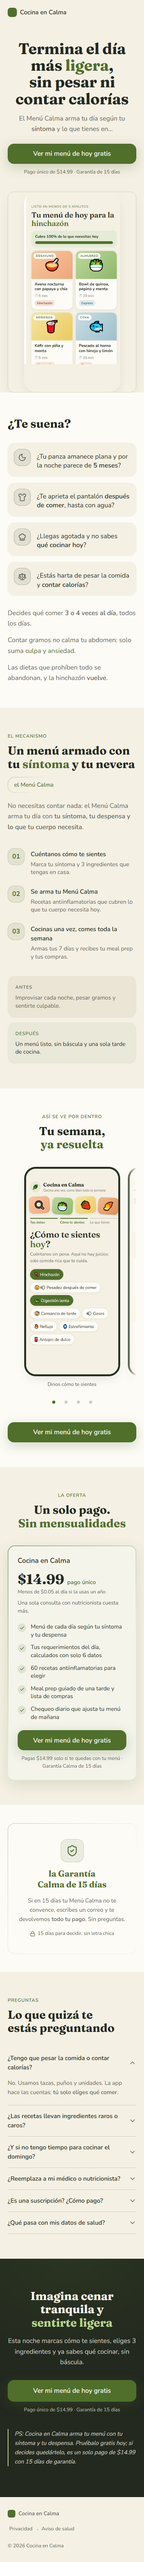
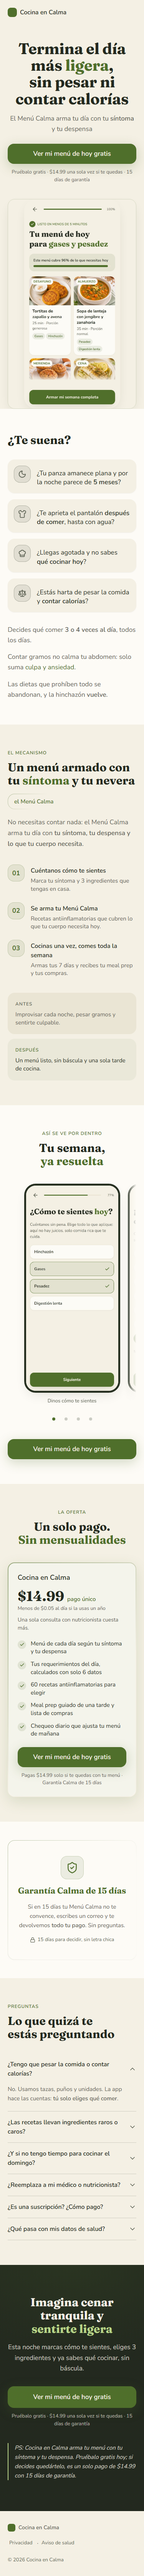
feat: fotos reales de 8 recetas y capturas reales de la app en la landing

diff --git a/app/page.tsx b/app/page.tsx
@@ -30,7 +30,7 @@ export default function Landing() {
         ctaLabel={CTA_LABEL}
         ctaHref={CTA_HREF}
         socialProof={<span>Pruébalo gratis · $14.99 una sola vez si te quedas · 15 días de garantía</span>}
-        visual={<img src="/mocks/primer-menu.png" alt="Tu primer menú de hoy con 4 comidas y la barra 100% cubierto" width={250} height={518} className="mx-auto w-[250px] rounded-[30px] shadow-[var(--shadow-2)]" />}
+        visual={<img src="/mocks/real-menu.jpg" alt="Tu primer menú de hoy con 4 comidas y la barra 100% cubierto" width={250} height={518} className="mx-auto w-[250px] rounded-[30px] shadow-[var(--shadow-2)]" />}
       />
 
       <Problema
@@ -71,10 +71,10 @@ export default function Landing() {
       <AppPorDentro
         tituloMarked="Tu semana, [acento]ya resuelta[/acento]"
         frames={[
-          { label: 'Dinos cómo te sientes', nombrePantalla: 'Síntomas', src: '/mocks/sintomas.png', alt: 'Pantalla donde marcas cómo te sientes hoy' },
-          { label: 'Tu primer menú de hoy', nombrePantalla: 'Menú de hoy', src: '/mocks/primer-menu.png', alt: 'Tu menú de hoy con 4 comidas y la barra de cobertura' },
-          { label: 'Arma tu semana', nombrePantalla: 'Semana', src: '/mocks/semana.png', alt: 'Pantalla para armar los 7 días de tu semana' },
-          { label: 'Meal prep y compras', nombrePantalla: 'Prep', src: '/mocks/prep.png', alt: 'Pasos del meal prep y lista de compras' },
+          { label: 'Dinos cómo te sientes', nombrePantalla: 'Síntomas', src: '/mocks/real-sintomas.jpg', alt: 'Pantalla donde marcas cómo te sientes hoy' },
+          { label: 'Marca lo que tienes en casa', nombrePantalla: 'Ingredientes', src: '/mocks/real-ingredientes.jpg', alt: 'Pantalla donde marcas 3 ingredientes de tu cocina' },
+          { label: 'Sabe lo que necesita tu cuerpo', nombrePantalla: 'Tu cuerpo', src: '/mocks/real-cuerpo.jpg', alt: 'Pantalla con el reparto de tu día entre las 4 comidas' },
+          { label: 'Tu primer menú de hoy', nombrePantalla: 'Menú de hoy', src: '/mocks/real-menu.jpg', alt: 'Tu menú de hoy con 4 recetas y cuánto cubre de tu día' },
         ]}
         ctaLabel={CTA_LABEL}
         ctaHref={CTA_HREF}

diff --git a/ESTADO.md b/ESTADO.md
@@ -85,6 +85,8 @@ Big Idea: "Desinflama tu abdomen y recupera tu ropa favorita sin volver a pesar 
 - NO construir: red social/foro, pedidos a supermercados, escáner de códigos, chat con nutricionista en vivo, seguimiento de agua
 
 ## Problemas conocidos ⚠
+- fotos: 8 fotos de la Etapa 1 recibidas el 2026-10-31 (generadas por la usuaria con IA) e instaladas en public/recetas/{d01,a02,m01,c01,d02,a01,m02,c07}.jpg; m01 se recortó para quitar una tarjeta de ingredientes superpuesta. Landing e onboarding usan capturas REALES de la app (public/mocks/real-*.jpg). Quedan 52 recetas sin foto (color + emoji de apoyo). Re-revisión del revisor-visual de landing y onboarding en curso.
+
 - veredicto onboarding: 2ª revisión NECESITA CORRECCIÓN (29/40 · 14/20 · 14/20; 1ª fue 24/13/13), fidelidad FIEL. Corregido después: progreso en sessionStorage (sobrevive a recargar), consentimiento resumido con detalle plegable, placeholders/autoenfoque/Enter, texto neutro de género, celebración suave del menú. BLOQUEO para LISTA: fotos reales de comida (hoy color + emoji; la usuaria las entregará) — al llegar las 8 fotos de la Etapa 1, relanzar revisor-visual. Abiertos: validación de la nutricionista, consentimiento en servidor.
 - veredicto landing: ver docs/revisiones/landing-veredicto.md. Hallazgos abiertos: fotos de comida reales (hoy son emojis sobre degradado en hero y carrusel), cifra real para el ancla de la oferta (consulta de nutricionista), capturas reales de la app al cerrarla, chip del mecanismo parece botón.
 - audit-conversion.sh: 13 críticos mayormente falsos positivos por escanear comentarios/strings del propio kit (voseo "animate", hairlines y gradientes que sí existen en ui.tsx/Hero.tsx); se revisan con el revisor-visual.

diff --git a/docs/copy/landing.md b/docs/copy/landing.md
@@ -32,7 +32,7 @@ Nivel de consciencia del tráfico principal (TikTok/Reels orgánico): **2 — co
 
 ## 5. La app por dentro
 - Título: Tu semana, [acento]ya resuelta[/acento]
-- Frames: Dinos cómo te sientes (Síntomas) · Tu primer menú de hoy (Menú de hoy) · Arma tu semana (Semana) · Meal prep y compras (Prep)
+- Frames (capturas REALES de la app, 2026-10-31): Dinos cómo te sientes (Síntomas) · Marca lo que tienes en casa (Ingredientes) · Sabe lo que necesita tu cuerpo (Tu cuerpo) · Tu primer menú de hoy (Menú de hoy)
 
 ## 6. Oferta  (pago único — FICHA-MERCADO §1)
 - Título: Un solo pago. [acento]Sin mensualidades[/acento]
